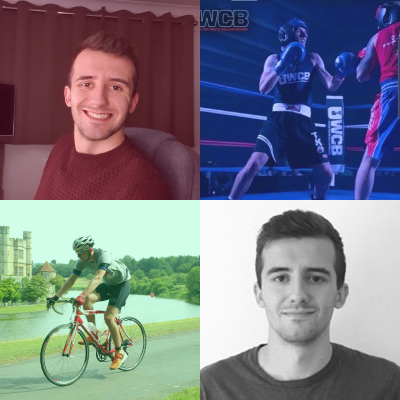
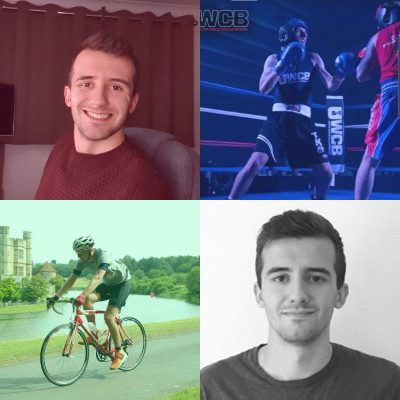
Optimise
Optimise

diff --git a/cv.html b/cv.html
@@ -93,7 +93,7 @@
         <div class="container">
            <div class="row">
                <div class="col-md-12">
-                   <img src="/img/mission.png">
+                   <img src="/img/mission.jpg">
 
                    <h4>Full Stack Web Developer</h4>
                    <p>January 2014 – November 2015
